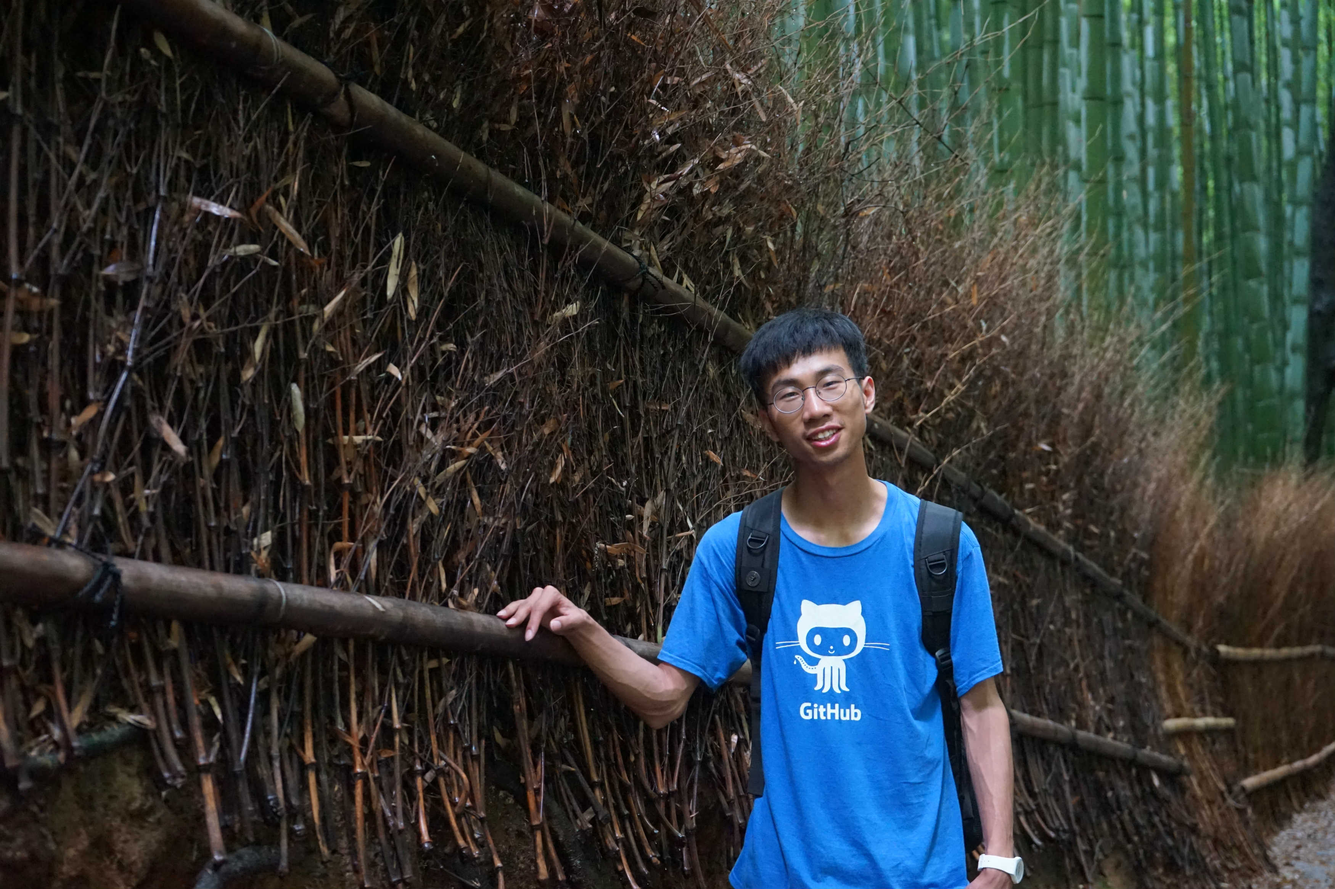
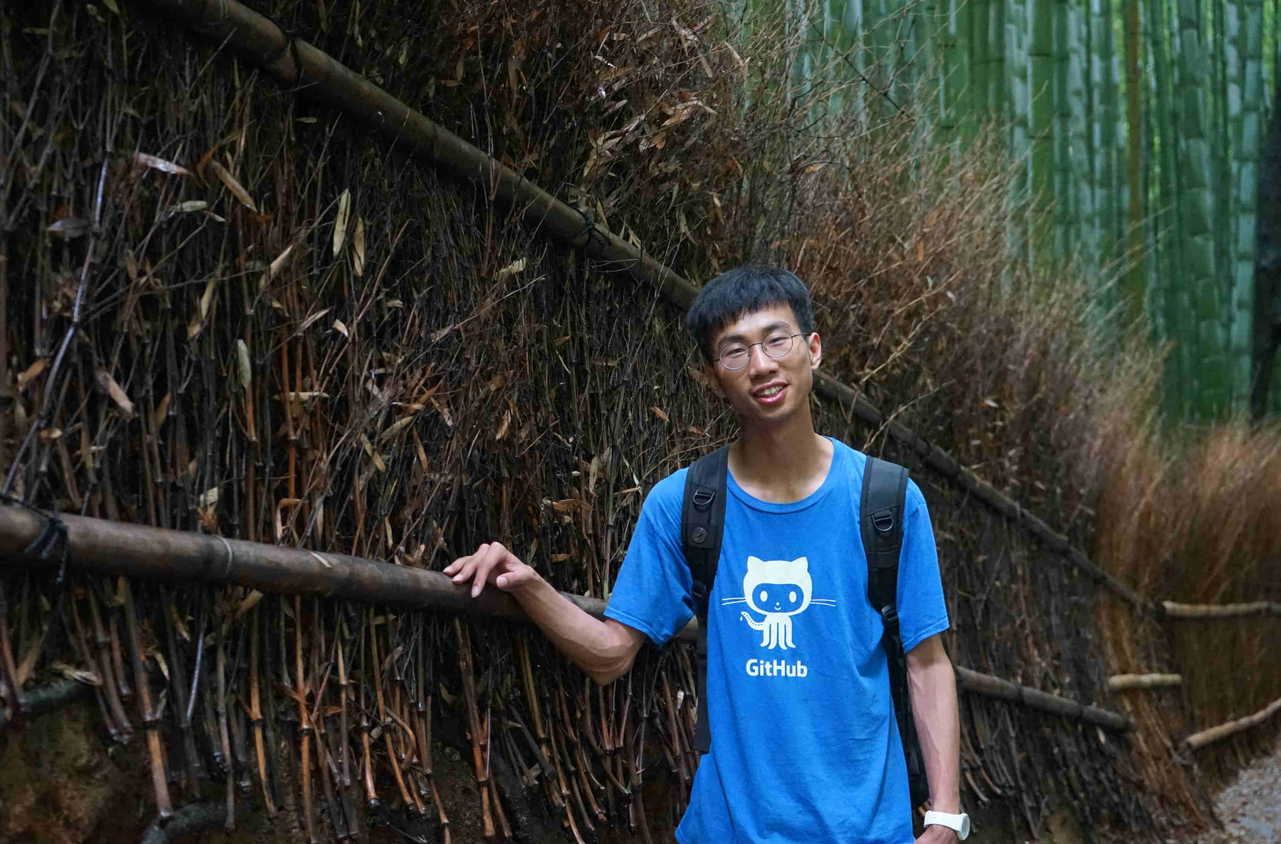
e
e

diff --git a/index.html b/index.html
@@ -97,7 +97,7 @@
                         <div class="col-md-12">
                             <h4 class="widget-title">Learn About Me</h4>
                             <div class="about-image">
-                                <img src="img/8.jpg" alt="about me">
+                                <img src="img/cover.jpg" alt="about me">
                             </div>
                             <p>Hello, everyone! This is Chen Li's website.</p>
                             <p>
